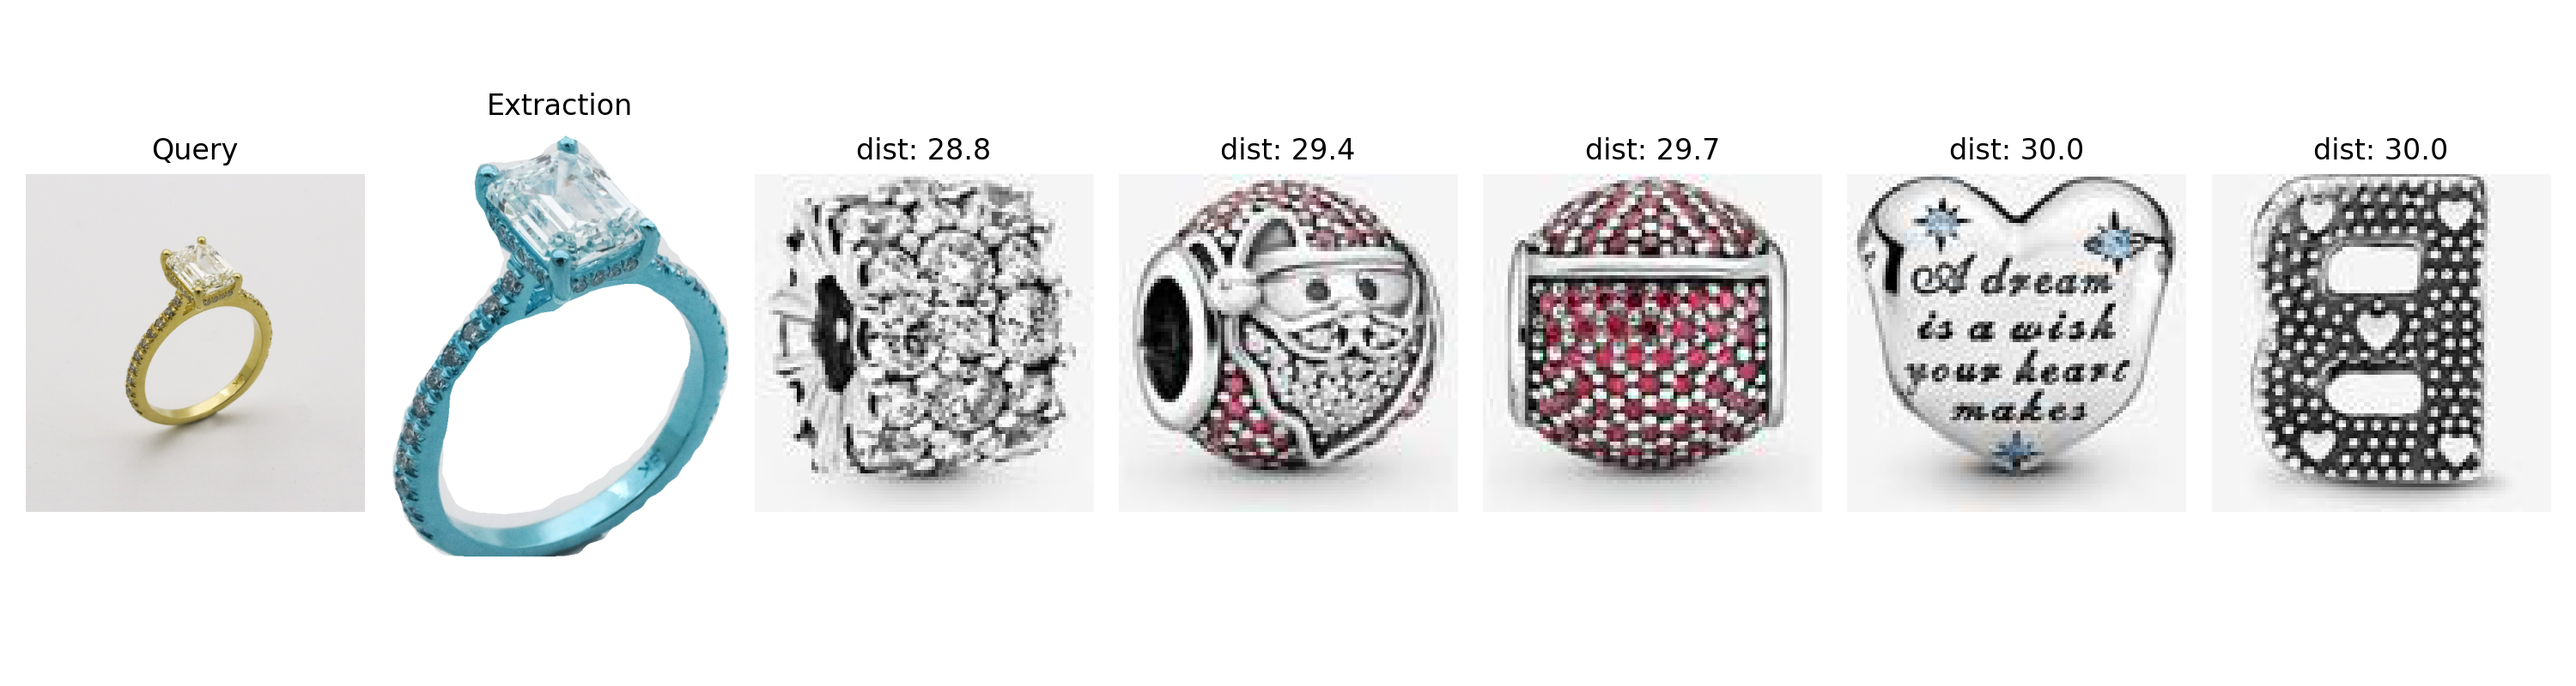
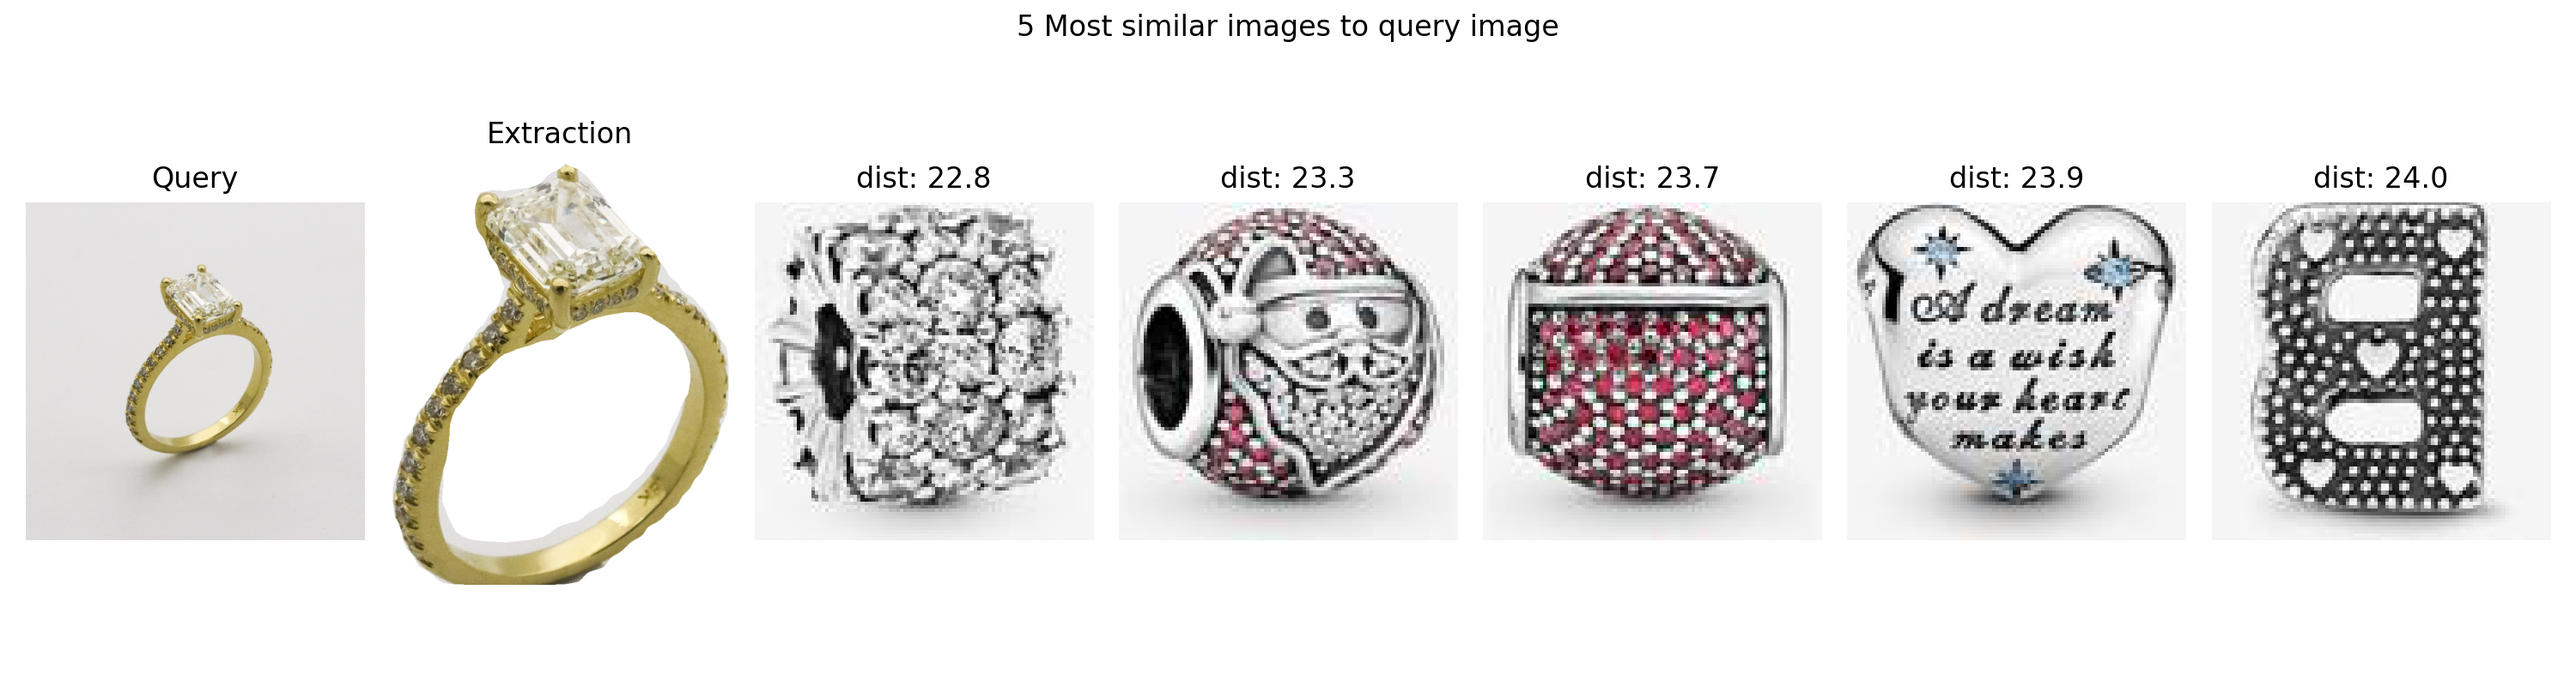
i hope this does not break the imports for you

diff --git a/main-run.py b/main-run.py
@@ -18,10 +18,10 @@ print('Extracting jewellery')
 impath = 'Figures/test3.jpg'
 im = cv2.imread(impath)
 crop_img = extract1jewel(im)
+# stupid cv2 nonsense they use BGR and not RGB like wtf? fixes image getting blue
+crop_img = cv2.cvtColor(crop_img, cv2.COLOR_BGR2RGB) 
 query_img = Image.fromarray(crop_img)
 im = Image.open(impath)
-query_img.save('q.png')
-cv2.imwrite('qcv2.png', crop_img)
 #%% Step 2 get embeddings for corpus
 print('Getting embeddings')
 model = EmbeddingNet()
@@ -68,32 +68,27 @@ with torch.no_grad():
 
 tree = cKDTree(val_embeddings_tl)
 n_neighbor = 5
-dists, idx = tree.query(embedding, k=n_neighbor)
+dists, idx = tree.query(embedding.numpy().ravel(), k=n_neighbor)
 
 #%% 5 show  nearest images
-fig = plt.figure(figsize=((15, 4)))
-plt.title('5 Most similar images to query image')
-fig.add_subplot(1, n_neighbor+2, 1)
-# plt.imshow(im.resize((96*4,96*4)))
-plt.imshow(im)
-plt.axis('off')
-plt.title('Query')
-fig.add_subplot(1, n_neighbor+2, 2)
-# imgarr = img_t.numpy()
-# imgarr=np.swapaxes(imgarr,0,1)
-# imgarr=np.swapaxes(imgarr,1,2)
-# plt.imshow(np.interp(imgarr, (imgarr.min(), imgarr.max()), (0,1)))  # rescale img to (0, 1)
-plt.imshow(query_img)
-plt.axis('off')
-plt.title('Extraction')
+fig, ax = plt.subplots(1, n_neighbor+2,figsize=((15, 4)))
+fig.suptitle('5 Most similar images to query image',size='xx-large')
+
+ax[0].imshow(im.resize((96*3,96*3)))
+ax[0].axis('off')
+ax[0].set_title('Query')
+
+ax[1].imshow(query_img.resize((96*3,96*3)))
+ax[1].axis('off')
+ax[1].set_title('Extraction')
 for i in range(n_neighbor):
-    fig.add_subplot(1, n_neighbor+2, i+3)
+    
     imgarr = test_dataset[idx.ravel()[i]][0].numpy()
     imgarr=np.swapaxes(imgarr,0,1)
     imgarr=np.swapaxes(imgarr,1,2)
-    plt.imshow(np.interp(imgarr, (imgarr.min(), imgarr.max()), (0,1)))
-    plt.title(f'dist: {dists.ravel()[i]:.3}')
-    plt.axis('off')
+    ax[i+2].imshow(np.interp(imgarr, (imgarr.min(), imgarr.max()), (0,1)))
+    ax[i+2].set_title(f'dist: {dists.ravel()[i]:.3}')
+    ax[i+2].axis('off')
 
 plt.tight_layout()
 plt.savefig('nearest.png',dpi=200)
@@ -105,3 +100,5 @@ print('Outputted to nearest.png')
 # plt.savefig('image')
 # plt.show()
 
+
+# %%

diff --git a/detectron2segment/inference.py b/detectron2segment/inference.py
@@ -13,6 +13,8 @@ it takes ~5 min to train on the gpu in colab. That is why I trained it there
 
 Original code
 https://github.com/facebookresearch/detectron2
+
+you need to have the model_final.pth downloaded and placed in the detectron2segment folder. it is too large for github. sorry. It is on the drive
 """
 #import torch, torchvision
 
@@ -41,10 +43,10 @@ setup_logger()
 
 def extract(im, threshold=0.82):
     """
-    you need to have the model_final.pth downloaded and placed in the detectron2segment folder. it is too large for github. sorry. It is on the drive
+    
     extracts All jewels from an image, crops the image to fit the jewel and makes all non-jewel elements in the image white.
 
-    >>> input a path to an image
+    >>> input a cv2 image (PIL does not seems to work)
     >>> returns the cropped image
     
     example use if called from root directory
@@ -120,5 +122,6 @@ def extract1jewel(im, threshold=0.82):
 
 
 if __name__ == "__main__":
-    crop_img = extract(os.path.join('detectron2segment','test.jpeg'), threshold=0.82)
+    im = cv2.imread(os.path.join('detectron2segment','test.jpeg'))
+    crop_img = extract(im, threshold=0.82)
     cv2.imwrite('extracted.png',crop_img)

diff --git a/deepRanking/train_online_model_tensorboard_tester.py b/deepRanking/train_online_model_tensorboard_tester.py
@@ -1,8 +1,8 @@
-from dataset import BalancedBatchSampler, make_dataset
-from nets import EmbeddingNet
-from plots import extract_embeddings, plot_embeddings
-from losses import OnlineTripletLoss, AverageNonzeroTripletsMetric
-from deep_ranking_utils import AllTripletSelector, HardestNegativeTripletSelector, SemihardNegativeTripletSelector, \
+from .dataset import BalancedBatchSampler, make_dataset
+from .nets import EmbeddingNet
+from .plots import extract_embeddings, plot_embeddings
+from .losses import OnlineTripletLoss, AverageNonzeroTripletsMetric
+from .deep_ranking_utils import AllTripletSelector, HardestNegativeTripletSelector, SemihardNegativeTripletSelector, \
     RandomNegativeTripletSelector, fit
 from torch.optim import lr_scheduler
 from torch.utils.tensorboard import SummaryWriter  # to print to tensorboard

diff --git a/deepRanking/plots.py b/deepRanking/plots.py
@@ -1,7 +1,7 @@
 import torchvision.utils
 
-from nets import EmbeddingNet
-from dataset import make_dataset
+from .nets import EmbeddingNet
+from .dataset import make_dataset
 from sklearn import preprocessing
 from utilities import dict_from_json
 from utilities import info_from_id
@@ -23,7 +23,7 @@ def plot_embeddings(embeddings, targets, encoder, xlim=None, ylim=None):
     targets = encoder.inverse_transform(targets)
     legend = []
     for i in set(targets):
-        category = info_from_id(i, master_file_path='../data_code/masterdata.csv')
+        category = info_from_id(i, master_file_path='data_code/masterdata.csv')
         inds = np.where(targets == i)[0]
         if category not in legend:
             legend += [category]

diff --git a/deepRanking/dataset.py b/deepRanking/dataset.py
@@ -134,12 +134,12 @@ class TripletDataset(Dataset):
 def list_paths_labels():
     # first make a list of every possible image
     # get ids for the different classes [ring, earring, etc.]
-    catalog = json.loads(open('../catalog.json', "r").read())
+    catalog = json.loads(open('catalog.json', "r").read())
     # catalog = dict_from_json('../catalog.json')
     all_img_paths = []
     all_img_labels = []
     for label in catalog.keys():
-        new_imgs = list_pictures(os.path.join("../data", label))
+        new_imgs = list_pictures(os.path.join("data", label))
         all_img_paths += new_imgs
         all_img_labels += [label] * len(new_imgs)
 

diff --git a/deepRanking/nets.py b/deepRanking/nets.py
@@ -6,7 +6,7 @@ cuda = torch.cuda.is_available()
 class EmbeddingNet(nn.Module):
     # https://github.com/adambielski/siamese-triplet/blob/master/networks.py
     def __init__(self):
-        super(EmbeddingNet, self).__init__()
+        super().__init__()
         self.convnet = nn.Sequential(nn.Conv2d(3, 32, 5), nn.PReLU(),
                                      nn.MaxPool2d(2, stride=2),
                                      nn.MaxPool2d(2, stride=2),
